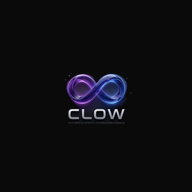
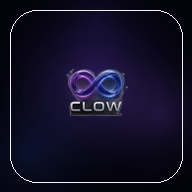
feat: background tech no chat + ícones PWA premium
chat.css — glassmorphism nos painéis:
- body: background transparent (html gradient de bg.css aparece)
- .sb (sidebar): rgba(8,8,26,.82) + backdrop-filter:blur(20px)
  partículas e orbs aparecem atrás da sidebar como profundidade
- .main (área chat): rgba(5,5,16,.65) — semi-transparente
- .input-area: rgba(8,8,26,.88) + backdrop-filter:blur(16px)
- Borders trocadas para rgba(100,80,180,.12) (mais harmônico com bg)

Ícones PWA (Python/PIL/numpy):
- Fundo premium: gradiente radial 4 orbs (roxo/azul profundo) + vignette
- Logo centralizada com glow roxo suave por baixo
- Borda interna arredondada rgba(155,89,252,22)
- Gerados: favicon 32px, apple-touch-icon 180px, icon 192px, icon 512px
  icon-maskable-192px, icon-maskable-512px

manifest.json:
- background_color atualizado para #050510
- apple-touch-icon 180x180 adicionado
- Shortcut "Abrir Chat" adicionado
- Descrição atualizada (produto final, sem referência a dev tools)

diff --git a/clow/static/css/chat.css b/clow/static/css/chat.css
@@ -13,7 +13,7 @@
 }
 *{margin:0;padding:0;box-sizing:border-box;-webkit-tap-highlight-color:transparent}
 html{height:100%;overflow:hidden;touch-action:manipulation;position:fixed;width:100%}input,textarea,select{font-size:16px !important;touch-action:manipulation}
-body{background:var(--bg-0);color:var(--t1);font-family:var(--sans);font-size:14px;font-weight:400;line-height:1.6;letter-spacing:-0.01em;height:100dvh;height:100vh;display:flex;overflow:hidden;-webkit-font-smoothing:antialiased;-moz-osx-font-smoothing:grayscale;text-rendering:optimizeLegibility;position:relative;touch-action:pan-x pan-y;overscroll-behavior:none}
+body{background:transparent;color:var(--t1);font-family:var(--sans);font-size:14px;font-weight:400;line-height:1.6;letter-spacing:-0.01em;height:100dvh;height:100vh;display:flex;overflow:hidden;-webkit-font-smoothing:antialiased;-moz-osx-font-smoothing:grayscale;text-rendering:optimizeLegibility;position:relative;touch-action:pan-x pan-y;overscroll-behavior:none}
 body::before{content:'';position:fixed;top:0;left:0;width:100%;height:100%;z-index:0;pointer-events:none;
   background:radial-gradient(ellipse at 50% 40%,rgba(155,89,252,.04) 0%,transparent 60%)}
 body::after{content:'';position:fixed;top:0;left:0;width:100%;height:100%;z-index:0;pointer-events:none;
@@ -23,7 +23,7 @@ body::after{content:'';position:fixed;top:0;left:0;width:100%;height:100%;z-inde
 ::-webkit-scrollbar{width:5px}::-webkit-scrollbar-track{background:transparent}::-webkit-scrollbar-thumb{background:linear-gradient(180deg,var(--p),var(--bl));border-radius:3px}::-webkit-scrollbar-thumb:hover{box-shadow:0 0 6px var(--pg)}
 
 /* SIDEBAR */
-.sb{width:var(--sw);height:100%;background:var(--bg-1);border-right:1px solid var(--bd);display:flex;flex-direction:column;flex-shrink:0;z-index:30;transition:transform .25s ease}
+.sb{width:var(--sw);height:100%;background:rgba(8,8,26,0.82);backdrop-filter:blur(20px);-webkit-backdrop-filter:blur(20px);border-right:1px solid rgba(100,80,180,.12);display:flex;flex-direction:column;flex-shrink:0;z-index:30;transition:transform .25s ease}
 .sb-head{padding:24px 16px 20px;padding-top:calc(20px + var(--st));display:flex;align-items:center;justify-content:center}
 .sb-logo-img{height:52px;object-fit:contain;filter:drop-shadow(0 0 16px rgba(155,89,252,.25)) drop-shadow(0 0 8px rgba(74,158,255,.15))}
 .sb-body{flex:1;overflow-y:auto;padding:4px 0;display:flex;flex-direction:column}
@@ -100,7 +100,7 @@ body::after{content:'';position:fixed;top:0;left:0;width:100%;height:100%;z-inde
 .sb-uplan{font-size:10px;font-weight:600;padding:2px 6px;border-radius:4px;background:var(--gp);color:#fff;letter-spacing:.3px;text-transform:uppercase}
 
 /* MAIN */
-.main{flex:1;display:flex;flex-direction:column;overflow:hidden;min-width:0;background:var(--bg-0);position:relative;z-index:2}
+.main{flex:1;display:flex;flex-direction:column;overflow:hidden;min-width:0;background:rgba(5,5,16,0.65);position:relative;z-index:2}
 .hdr{display:flex;align-items:center;padding:0 20px;padding-top:var(--st);height:calc(52px + var(--st));background:var(--bg-1);border-bottom:1px solid var(--bd);flex-shrink:0;gap:10px;overflow:visible;position:relative;z-index:20}
 .ham{display:none;background:none;border:none;color:var(--t2);font-size:20px;cursor:pointer;padding:4px}
 .hdr-t{flex:1;font-size:14px;font-weight:500;color:var(--t1);overflow:hidden;text-overflow:ellipsis;white-space:nowrap;font-family:var(--sans)}
@@ -218,7 +218,7 @@ body::after{content:'';position:fixed;top:0;left:0;width:100%;height:100%;z-inde
 .mission-done{background:rgba(74,222,128,.05);border:1px solid rgba(74,222,128,.2);border-radius:12px;padding:14px;margin:10px 0}.mission-done .mctitle{color:var(--g)}
 
 /* INPUT */
-.input-area{flex-shrink:0;padding:12px 16px;padding-bottom:calc(12px + env(safe-area-inset-bottom,0px));background:var(--bg-1);border-top:1px solid var(--bd);z-index:10;position:relative}
+.input-area{flex-shrink:0;padding:12px 16px;padding-bottom:calc(12px + env(safe-area-inset-bottom,0px));background:rgba(8,8,26,0.88);backdrop-filter:blur(16px);-webkit-backdrop-filter:blur(16px);border-top:1px solid rgba(100,80,180,.12);z-index:10;position:relative}
 .file-preview{padding:8px 12px;display:flex;align-items:center;gap:10px;background:var(--bg-2);border:1px solid var(--bd);border-radius:10px;margin-bottom:8px;animation:mIn .2s ease-out}
 .file-preview .fp-thumb{width:48px;height:48px;border-radius:8px;object-fit:cover;background:var(--bg-3);display:flex;align-items:center;justify-content:center;font-size:24px;flex-shrink:0;overflow:hidden}
 .file-preview .fp-thumb img{width:100%;height:100%;object-fit:cover;border-radius:8px}
